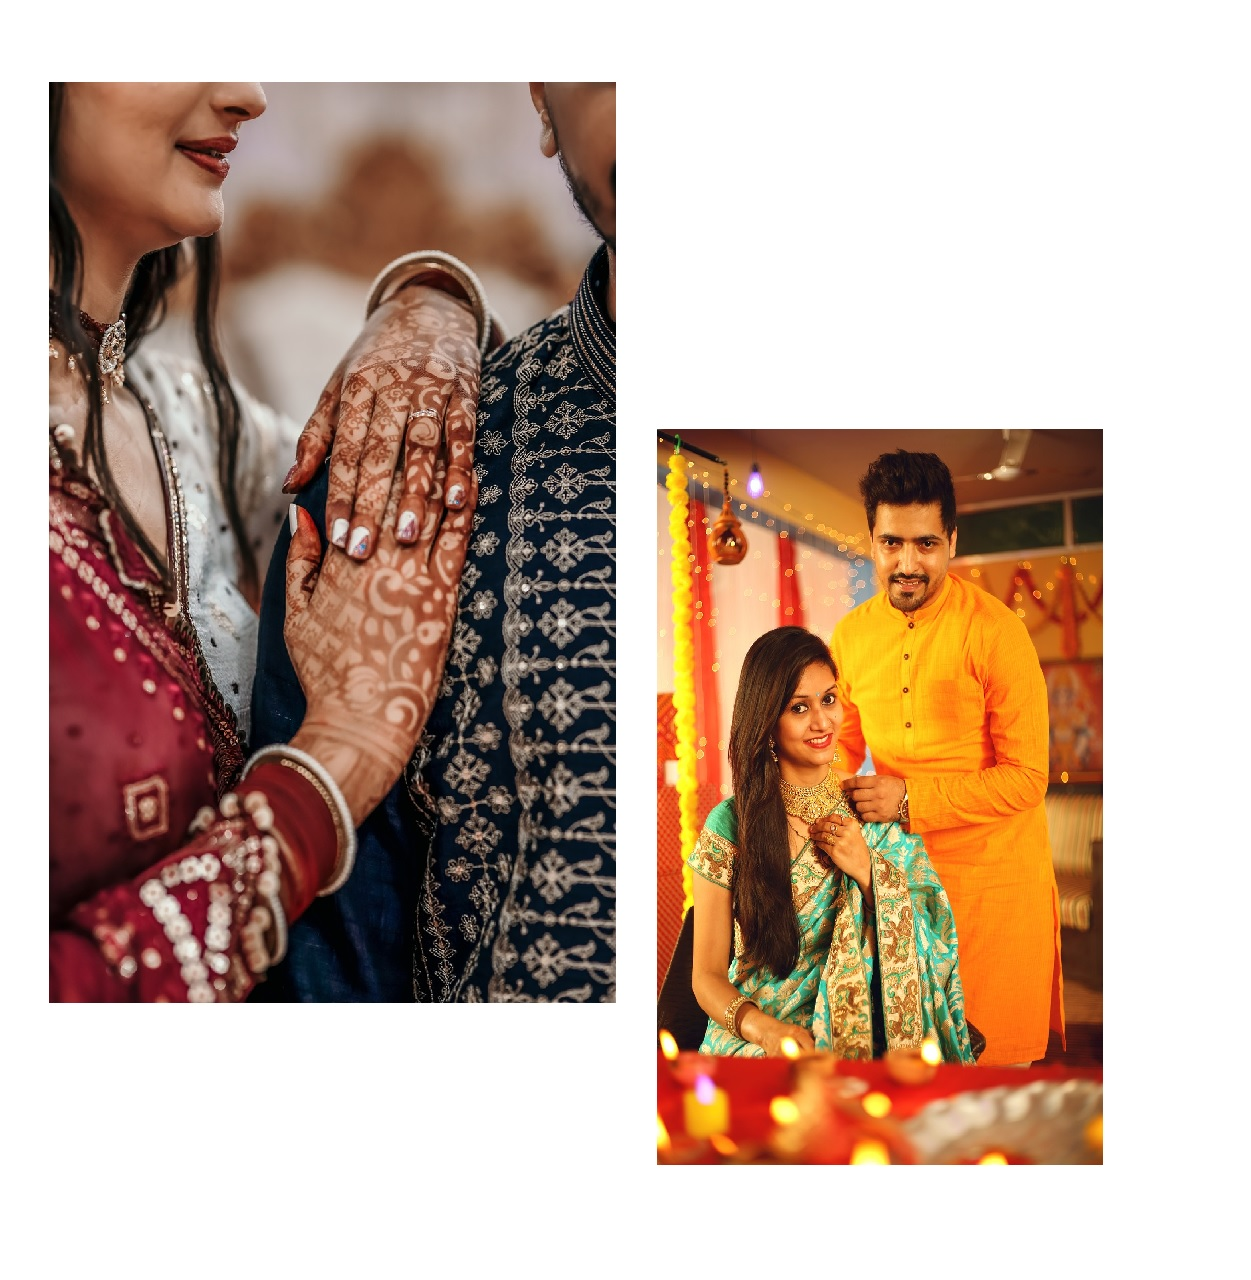
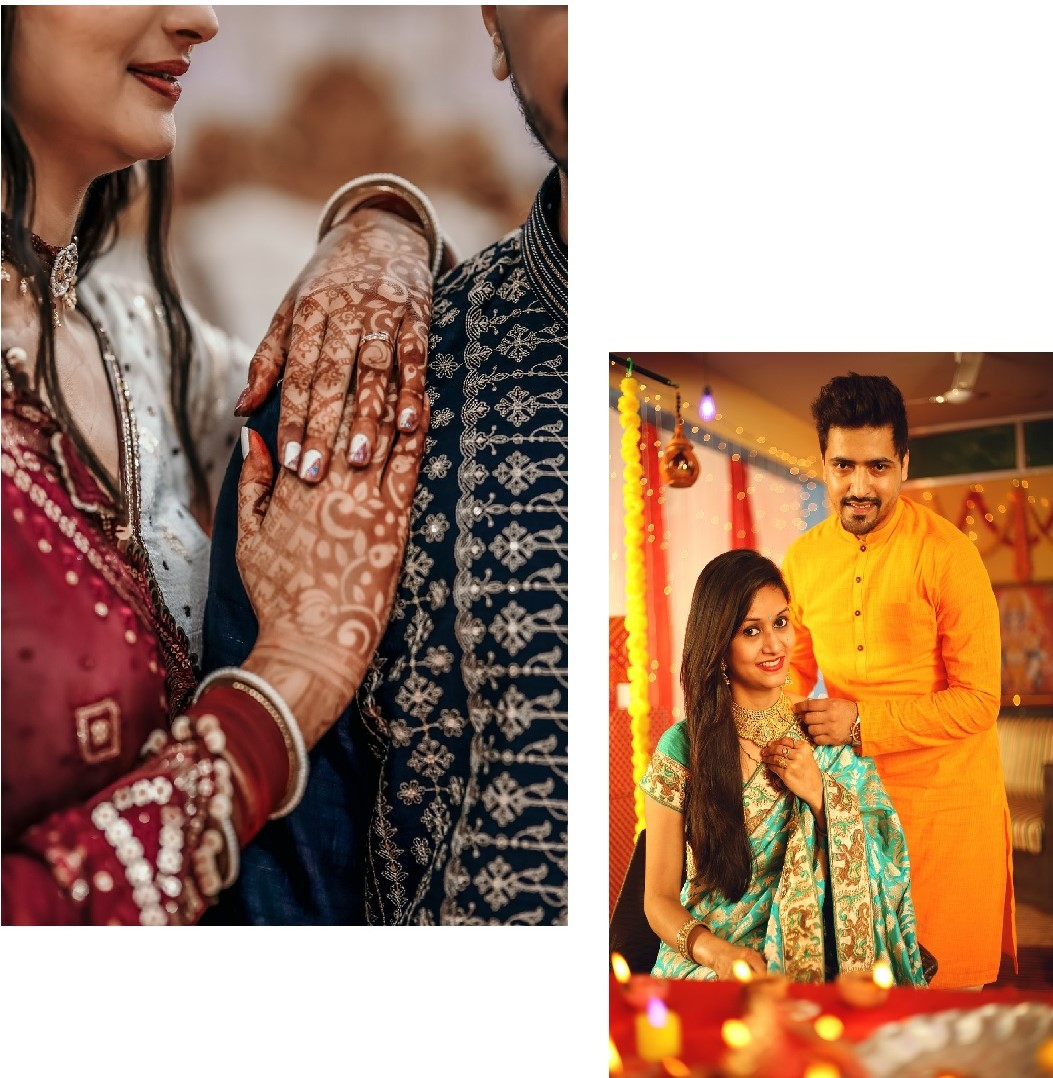
editProfile updated

diff --git a/fsfrontend/src/main/EditProfile.jsx b/fsfrontend/src/main/EditProfile.jsx
@@ -1,19 +1,78 @@
-// import React from 'react'
+import { useState } from 'react'
 import { Panel } from 'primereact/panel';
+import { Card } from 'primereact/card';
+import { Button } from 'primereact/button';
 import { InputText } from 'primereact/inputtext';
 import { InputTextarea } from 'primereact/inputtextarea';
 
+let basicInfo = { fullName: "Manoj Pethe", height: "6.4", relgion: "Hindu", motherTongue: "marathi", caste: "Bramhin", annualIncome: "", city: "Pune", state: "Maharashtra", country: "India", profileManager: "Manoj Pethe" };
+
+const ShowBasicInfo = () => {
+  return (<div style={{"fontFamily":"verdana"}}>
+    <div><br/>
+    <div className="grid" style={{ "width": "100%" }}>
+    <div className="col-12 lg:col-12 md:col-12">Full Name</div>
+    <div className="col-6 lg:col-6 md:col-6">Height</div>
+    <div className="col-6 lg:col-6 md:col-6">Religion</div>
+    <div className="col-6 lg:col-6 md:col-6">Mother Tongue</div>
+    <div className="col-6 lg:col-6 md:col-6">Annual Income</div>
+    <div className="col-6 lg:col-6 md:col-6">Location</div>
+    <div className="col-6 lg:col-6 md:col-6">Caste</div>
+    <div className="col-6 lg:col-6 md:col-6">Profile Managed by</div>
+    </div>
+    </div>
+  </div>)
+}
+
+const EditBasicInfo = (props) => {
+  return (<div>
+    <div className="grid" style={{ "width": "100%" }}>
+      <div className="col-12 lg:col-4 md:col-4" style={{ "textAlign": "left","fontFamily":"verdana", }} >Full Name</div>
+      <div className="col-12 lg:col-8 md:col-8"><InputText style={{ "width": "100%" }} /></div>
+      <div className="col-12 lg:col-4 md:col-4" style={{ "textAlign": "left","fontFamily":"verdana", }}>Gender</div>
+      <div className="col-12 lg:col-8 md:col-8"><InputText style={{ "width": "100%" }} /></div>
+      <div className="col-12 lg:col-4 md:col-4" style={{ "textAlign": "left","fontFamily":"verdana", }}>Height</div>
+      <div className="col-12 lg:col-8 md:col-8"><InputText style={{ "width": "100%" }} /></div>
+      <div className="col-12 lg:col-4 md:col-4" style={{ "textAlign": "left","fontFamily":"verdana", }}>Religion</div>
+      <div className="col-12 lg:col-8 md:col-8"><InputText style={{ "width": "100%" }} /></div>
+      <div className="col-12 lg:col-4 md:col-4" style={{ "textAlign": "left","fontFamily":"verdana", }}>Mother Tongue</div>
+      <div className="col-12 lg:col-8 md:col-8"><InputText style={{ "width": "100%" }} /></div>
+      <div className="col-12 lg:col-4 md:col-4" style={{ "textAlign": "left","fontFamily":"verdana", }}>Caste</div>
+      <div className="col-12 lg:col-8 md:col-8"><InputText style={{ "width": "100%" }} /></div>
+      <div className="col-12 lg:col-4 md:col-4" style={{ "textAlign": "left","fontFamily":"verdana", }}>Country</div>
+      <div className="col-12 lg:col-8 md:col-8"><InputText style={{ "width": "100%" }} /></div>
+      <div className="col-12 lg:col-4 md:col-4" style={{ "textAlign": "left","fontFamily":"verdana", }}>City</div>
+      <div className="col-12 lg:col-8 md:col-8"><InputText style={{ "width": "100%" }} /></div>
+      <div className="col-12 lg:col-4 md:col-4" style={{ "textAlign": "left","fontFamily":"verdana", }}>Annual Income</div>
+      <div className="col-12 lg:col-8 md:col-8"><InputText style={{ "width": "100%" }} /></div>
+      <div className="col-12 lg:col-4 md:col-4" style={{ "textAlign": "left","fontFamily":"verdana", }}>Profile Managed by</div>
+      <div className="col-12 lg:col-8 md:col-8"><InputText style={{ "width": "100%" }} /></div>
+      <div className="col-12 lg:col-4 md:col-4" style={{ "textAlign": "right" }}></div>
+      <div className="col-12 lg:col-8 md:col-8">
+        <Button onClick={()=>{props.setEditBasicInfoToggle(false)}} label='&nbsp;Save&nbsp;' severity='danger' />&nbsp;
+        <Button onClick={()=>{props.setEditBasicInfoToggle(false)}} label='Cancel' severity='secondary' />
+      </div>
+    </div>
+  </div>
+  )
+}
+
 const EditProfile = () => {
+  const [editBasicInfoToggle, setEditBasicInfoToggle] = useState(false);
+
   return (
     <div className="grid" style={{ "width": "100%" }}>
       <div className="col-12 lg:col-3 md:col-3 "></div>
       <div className="col-12 lg:col-6 md:col-6">
-        <h4>Edit Profile</h4>
-        <Panel header="Basic Information">
-          <p className="m-0">
-            Full Name, Height, Religion, Mother Tongue, Annual Income, Location, Caste, Profile Managed by
-          </p>
-        </Panel>
+        <div style={{"fontFamily":"verdana","marginTop":"10px", "marginLeft":"20px","marginBottom":"10px"}}>Edit Profile</div>
+        <div style={{"marginLeft":"20px"}}>
+          <div><div className='text-pink-600' style={{ "float": "left","fontFamily":"verdana", }}>Basic Information</div><div style={{ "float": "right" }}>
+            <Button onClick={()=>{setEditBasicInfoToggle(true)}} label="Edit" severity="danger" text />
+          </div>
+          </div>
+          <br />
+          {!editBasicInfoToggle ? <ShowBasicInfo setEditBasicInfoToggle={setEditBasicInfoToggle} /> : <EditBasicInfo setEditBasicInfoToggle={setEditBasicInfoToggle} />}
+        </div>
         <Panel header="Critical Information">
           <p className="m-0">
             birthdate & Marital Status
@@ -42,7 +101,7 @@ const EditProfile = () => {
         </Panel>
         <Panel header="Personal choices">
           <p className="m-0">
-            Art liking, Hobbies, Music, cloathing, movie, sports, cooking, travelled places 
+            Art liking, Hobbies, Music, cloathing, movie, sports, cooking, travelled places
           </p>
         </Panel>
       </div>

diff --git a/fsfrontend/src/home/Login.jsx b/fsfrontend/src/home/Login.jsx
@@ -1,5 +1,5 @@
 // import React from 'react'
-import { useGoogleLogin} from '@react-oauth/google'
+import { useGoogleLogin } from '@react-oauth/google'
 import axios from 'axios';
 import { useDispatch } from 'react-redux';
 import { login } from '../redux/userInfo';
@@ -9,35 +9,36 @@ import { Button } from "primereact/button"
 import { useNavigate } from 'react-router-dom';
 
 const Login = () => {
-    const navigate = useNavigate();
-    const dispatch = useDispatch();
+  const navigate = useNavigate();
+  const dispatch = useDispatch();
 
-    const googleLogin = useGoogleLogin({
-      onSuccess: async tokenResponse => {
-        // console.log(tokenResponse);
-        // fetching userinfo can be done on the client or the server
-        const userInfo = await axios
-          .get('https://www.googleapis.com/oauth2/v3/userinfo', {
-            headers: { Authorization: `Bearer ${tokenResponse.access_token}` },
-          })
-          .then(res => res.data);
-  
-        console.log(userInfo);
-        dispatch(login(userInfo));
-        navigate("/main/feed")
-      },
-      onError: async(error)=>{
-        console.log(error);
-      }
-    })
+  const googleLogin = useGoogleLogin({
+    onSuccess: async tokenResponse => {
+      // console.log(tokenResponse);
+      // fetching userinfo can be done on the client or the server
+      const userInfo = await axios
+        .get('https://www.googleapis.com/oauth2/v3/userinfo', {
+          headers: { Authorization: `Bearer ${tokenResponse.access_token}` },
+        })
+        .then(res => res.data);
 
-    return (
-        <div>
-            <div>Login/Registration Page</div>
-            <div><Button onClick={() => { googleLogin() }}>Login</Button></div>
+      console.log(userInfo);
+      dispatch(login(userInfo));
+      navigate("/main/feed")
+    },
+    onError: async (error) => {
+      console.log(error);
+    }
+  })
 
-        </div>
-    )
+  return (
+    <div className='centerDiv'>
+      <div><Button style={{ "width": "100%", "backgroundColor":"black" }} onClick={() => { googleLogin() }}>Login using Apple&nbsp;<i className="pi pi-apple" style={{ fontSize: '1rem' }}></i></Button></div>
+      &nbsp;
+      <div><Button style={{ "width": "100%", "backgroundColor":"purple" }} onClick={() => { googleLogin() }}>Login using Google&nbsp;<i className="pi pi-google" style={{ fontSize: '1rem' }}></i> </Button></div>
+
+    </div>
+  )
 }
 
 export default Login

diff --git a/fsfrontend/src/main/LeftPane.jsx b/fsfrontend/src/main/LeftPane.jsx
@@ -11,10 +11,12 @@ const LeftPane = () => {
     return (
         <div style={{ "width": "75%", "padding": "10px", "marginLeft": "25%", "margin": "20px", "paddingLeft": "10%" }}>
             <Card>
-                <div style={{ "height": "150px", "width": "100%", "cursor":"pointer", "color":"blue" }} onClick={()=>{ navigate("/main/editProfile"); }} >
+                <div style={{ "height": "150px", "width": "100%", "cursor":"pointer" }} onClick={()=>{ navigate("/main/editProfile"); }} >
                 <Avatar image={profileImage} size="xlarge" shape="circle" /><br/>
+                <span className='text-base'>
                 Merlyin Monroe <br/>
                 Edit Profile <br/>
+                </span>
                 </div>
                 <Button onClick={() => { navigate("/main/feed"); }} icon="pi pi-link" label="Suggestions" severity="secondary" text /><br />
                 <Button onClick={() => { navigate("/main/feed"); }} icon="pi pi-sort-alpha-down" label="Activity" severity="secondary" text /><br />

diff --git a/fsfrontend/src/main/Logout.jsx b/fsfrontend/src/main/Logout.jsx
@@ -16,10 +16,13 @@ const Logout = () => {
     }
 
     return (
-        <div>
-            <div>Please confirmm do you wish to Logout?</div>
-            <div><Button onClick={() => { userLogout() }}>Yes</Button></div>
-
+        <div className='centerDiv'>
+            <center>
+                <div style={{ "marginBottom": "10px" }} className='text-2xl'>Please confirm, do you wish to Logout?</div>
+                <div>
+                    <Button label="Yes" severity='danger' onClick={() => { userLogout() }} />&nbsp;
+                    <Button label="No" severity='secondary' onClick={() => { navigate("/main/feed") }} /></div>
+            </center>
         </div>
     )
 }

diff --git a/fsfrontend/src/home/Intro.jsx b/fsfrontend/src/home/Intro.jsx
@@ -5,7 +5,9 @@ import poster from "../assets/img/indianWedding.jpg"
 const Intro = () => {
   return (
     <div><Menu />
-    <img src={poster}></img>
+      <div className='centerDiv' style={{"opacity":"75%"}}>
+        <img src={poster} width={(screen.height / 100) * 50}></img>
+      </div>
     </div>
   )
 }

diff --git a/fsfrontend/src/custom.css b/fsfrontend/src/custom.css
@@ -25,3 +25,12 @@ div.sticky {
     display: none;
   }
 }
+
+.centerDiv {
+  border: 0px solid;
+  position: absolute;
+  top: 50%;
+  left: 50%;
+  transform: translate(-50%, -50%);
+  padding: 10px;
+}
